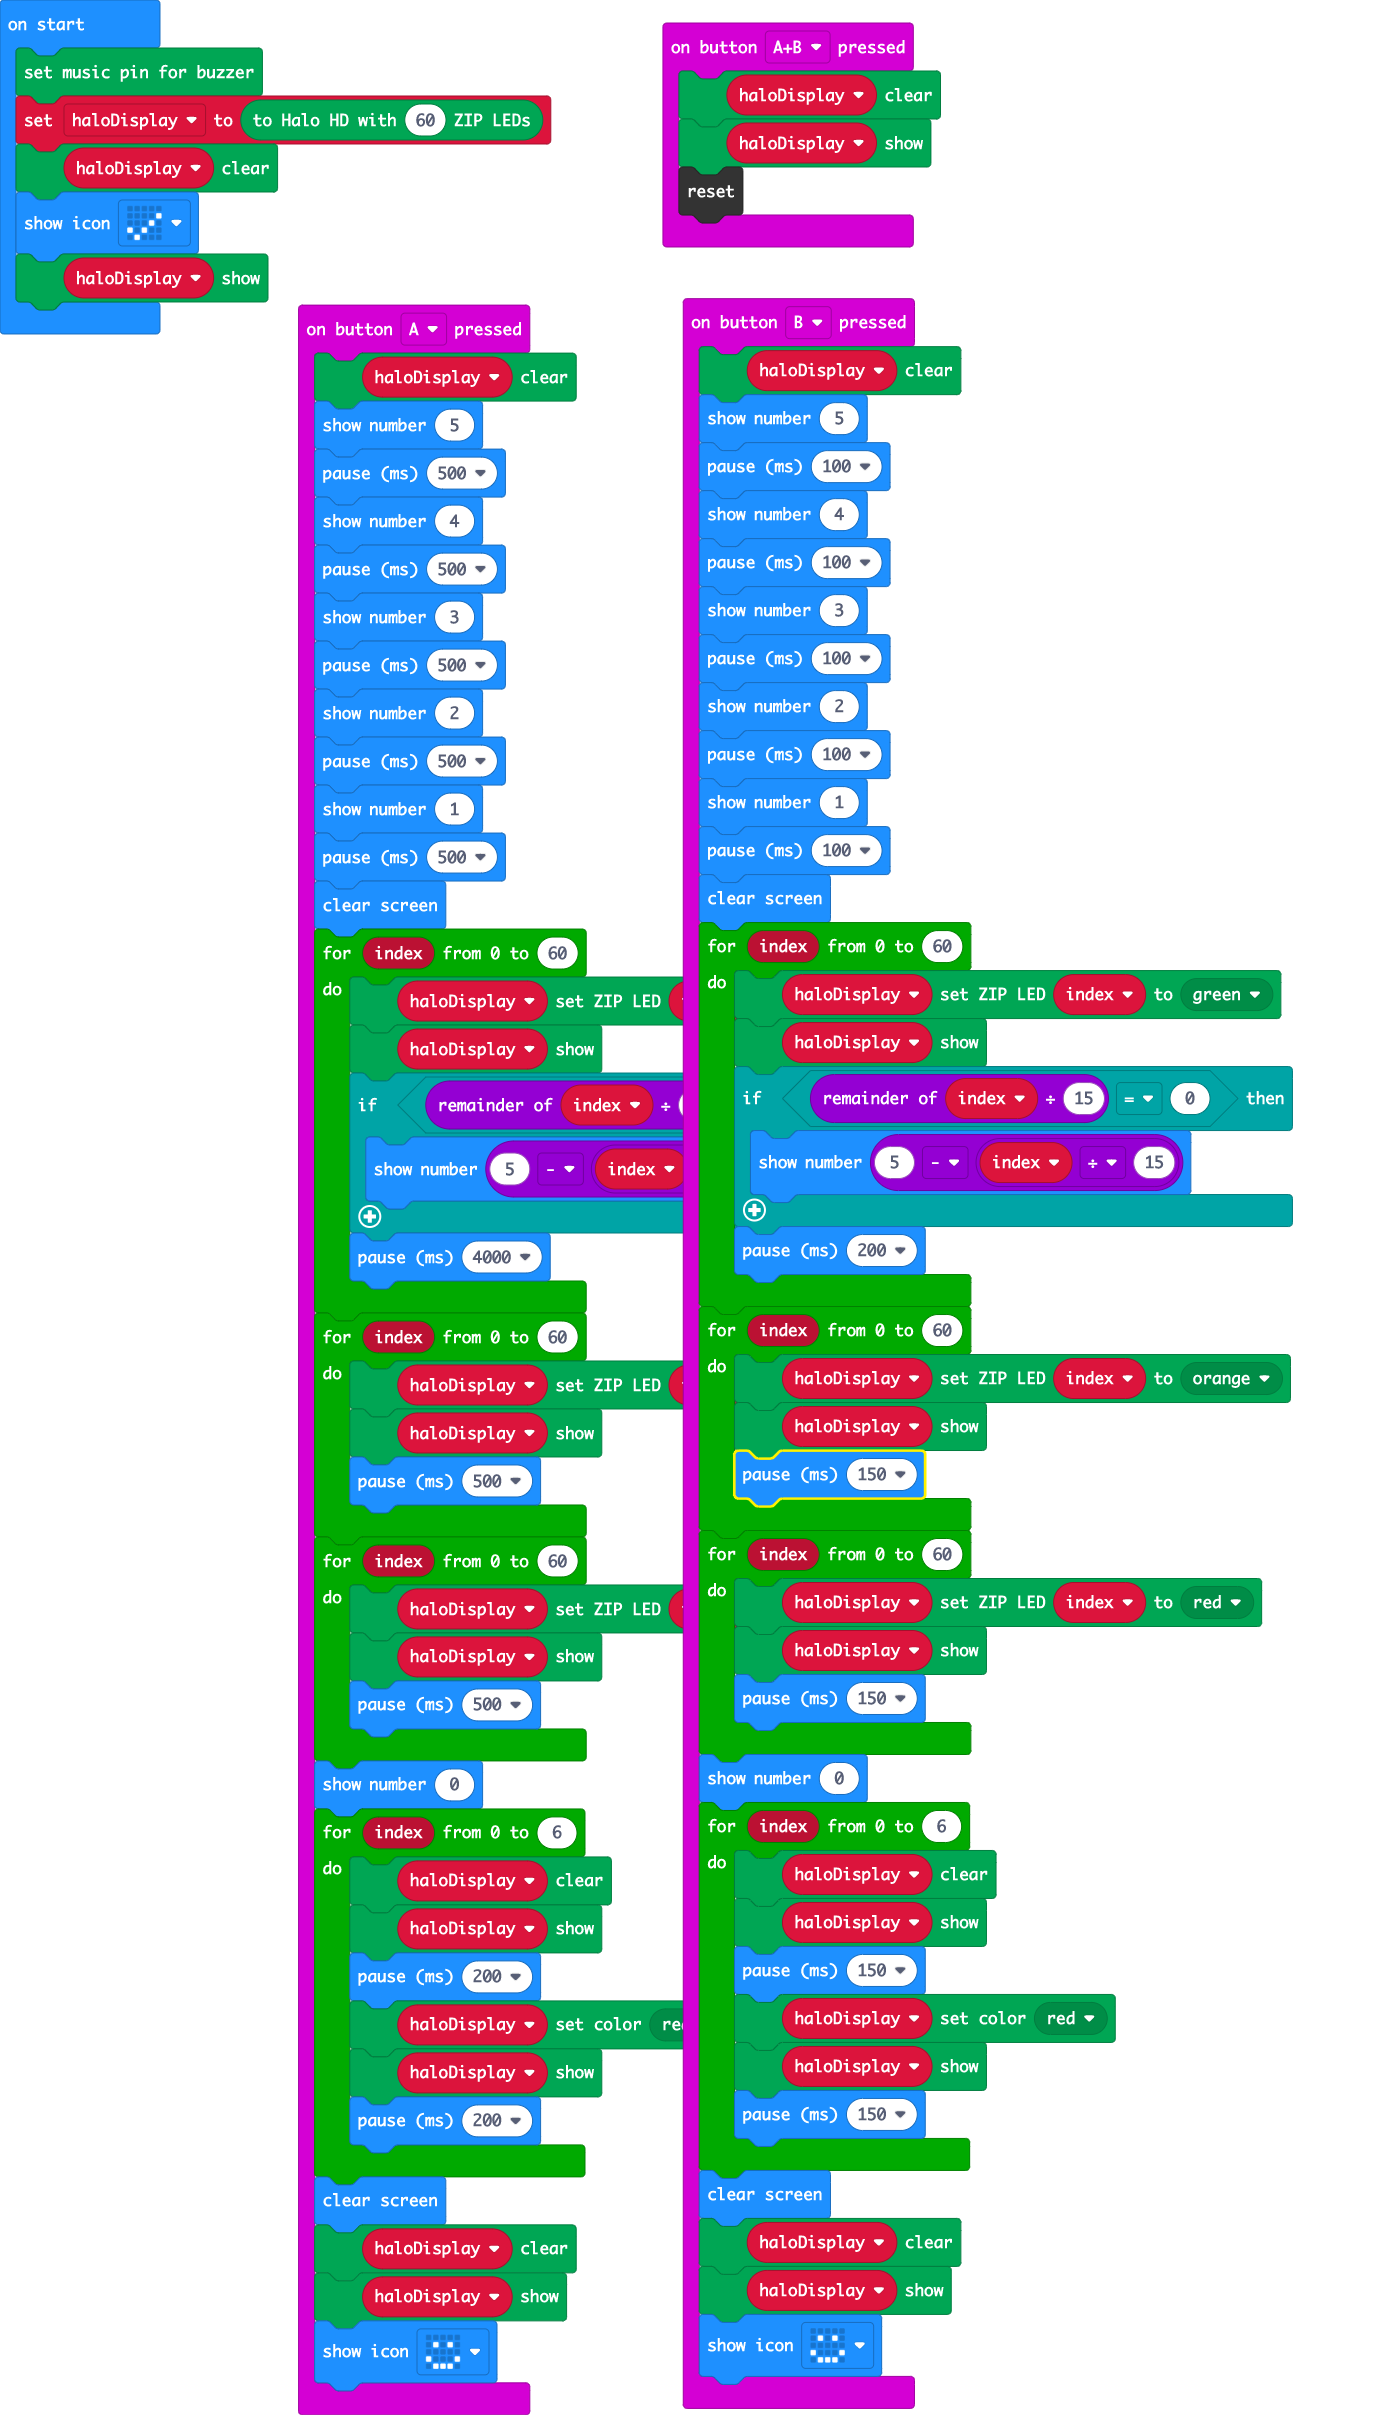
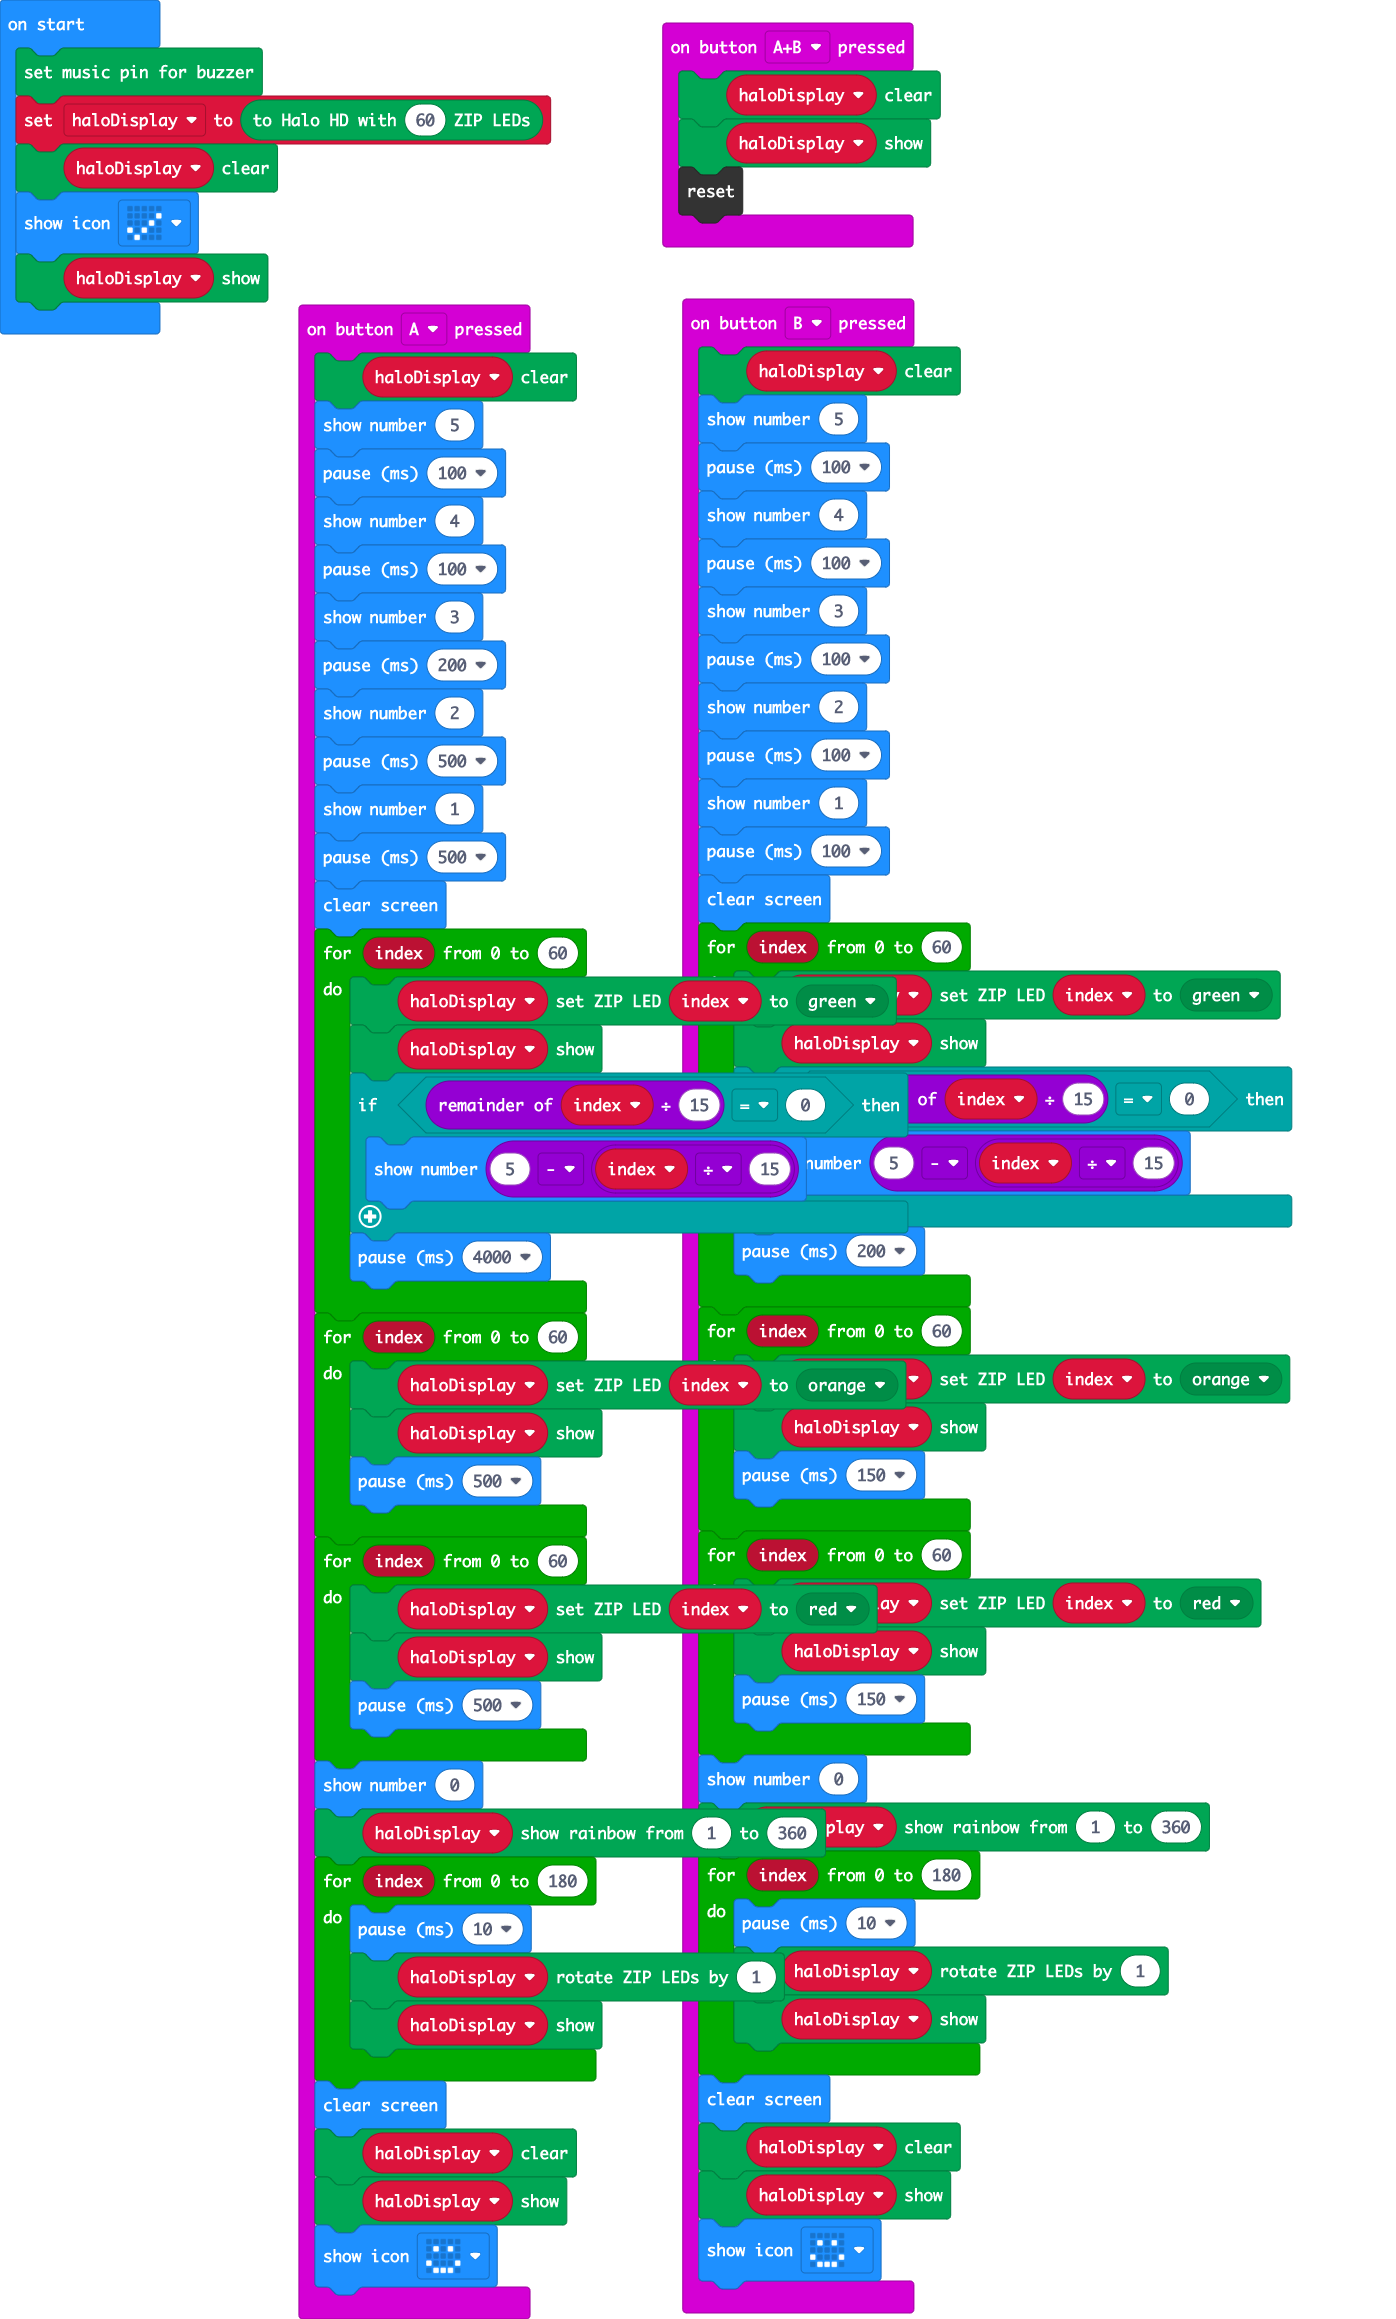
extra rainbowie

Changed region(s): [[0.2156, 0.0, 0.9241, 0.9935], [0.0, 0.0, 0.4004, 0.1552]]

diff --git a/main.ts b/main.ts
@@ -1,11 +1,11 @@
 input.onButtonPressed(Button.A, function () {
     haloDisplay.clear()
     basic.showNumber(5)
-    basic.pause(500)
+    basic.pause(100)
     basic.showNumber(4)
-    basic.pause(500)
+    basic.pause(100)
     basic.showNumber(3)
-    basic.pause(500)
+    basic.pause(200)
     basic.showNumber(2)
     basic.pause(500)
     basic.showNumber(1)
@@ -30,13 +30,11 @@ input.onButtonPressed(Button.A, function () {
         basic.pause(500)
     }
     basic.showNumber(0)
-    for (let index = 0; index <= 6; index++) {
-        haloDisplay.clear()
+    haloDisplay.showRainbow(1, 360)
+    for (let index = 0; index <= 180; index++) {
+        basic.pause(10)
+        haloDisplay.rotate(1)
         haloDisplay.show()
-        basic.pause(200)
-        haloDisplay.setColor(kitronik_halo_hd.colors(ZipLedColors.Red))
-        haloDisplay.show()
-        basic.pause(200)
     }
     basic.clearScreen()
     haloDisplay.clear()
@@ -80,13 +78,11 @@ input.onButtonPressed(Button.B, function () {
         basic.pause(150)
     }
     basic.showNumber(0)
-    for (let index = 0; index <= 6; index++) {
-        haloDisplay.clear()
+    haloDisplay.showRainbow(1, 360)
+    for (let index = 0; index <= 180; index++) {
+        basic.pause(10)
+        haloDisplay.rotate(1)
         haloDisplay.show()
-        basic.pause(150)
-        haloDisplay.setColor(kitronik_halo_hd.colors(ZipLedColors.Red))
-        haloDisplay.show()
-        basic.pause(150)
     }
     basic.clearScreen()
     haloDisplay.clear()
